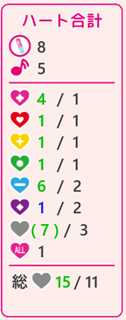
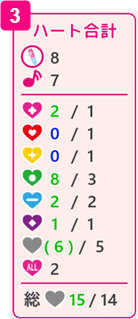
Anniversary2026向け更新 (#4)
* 更新履歴の更新

* 使い方と画像の更新

* Readmeの更新

diff --git a/docs/Usage.md b/docs/Usage.md
@@ -4,8 +4,7 @@
 ## 基本的な使い方
 基本的にはドラッグでカードを移動、クリックや右クリックで操作。
 
-**`速い操作や長時間の使用は(スペックにより)ツールが落ちる可能性が高まるため避けてください。`**  
-**`こまめなデッキの保存や立ち上げ直しをお願いします。`**
+**`極度に速い操作は(スペックにより)ツールが落ちる可能性が高まるため避けてください。`**  
 
 ### プレイ画面(シミュレーション)
 プレイ画面では画面右下のNextボタンでターンを進行する。
@@ -51,6 +50,8 @@
 
 ![](images/index_main_yell.png)
 
+![](images/index_main_indeck.png)
+
 |#|名前|説明|
 |---|---|---|
 |1|詳細パネル|クリックしたカードの詳細情報が表示される。<br>拡大画像をクリックすると、カード番号や最初の収録パックが表示される。|
@@ -68,6 +69,8 @@
 |13|控え室|カードをドラッグ&ドロップで移動できる。一番最後に控え室に入ったカードが表示される。<br>クリックすると控え室のカード一覧が表示され、そこからカードをドラッグ&ドロップで移動できる。|
 |14|ブレードハート合計パネル|エールで出されたカードのブレードハートの合計が表示される。|
 |15|エール領域|カードをドラッグ&ドロップで移動できる。エールで出されたカードが並び、ブレードハートが表示される。<br>エールしているカードが存在するときのみ表示される。|
+|16|ブレードハート上書きメニュー|ブレードハート合計パネルをクリックすると表示される。<br>エールでめくられているカードのブレードハートの色を変更する。|
+|17|デッキの内容|メインデッキを右クリックすると表示される。<br>デッキ内のカードの一覧が表示される。一番上と一番下に置かれたカードは先頭と最後尾に表示される。|
 
 **ボタンについて**
 
@@ -76,7 +79,9 @@
 |メニューボタン|![](images/button_menu.png)|各種操作のメニューが開く。|
 |キャプチャボタン|![](images/button_capture.png)|ウィンドウ内をキャプチャして画像として保存する。|
 |向き変更ボタン|![](images/button_rotate.png)|メンバーカードのアクティブ<=>ウェイト状態を変更する。|
-|ステータス編集ボタン|![](images/button_edit.png)|選択・表示されているカードのステータスを編集するダイアログを開く。<br>デッキ・控え室のカードのステータスは編集できない。|
+|ステータス編集ボタン<br>(詳細パネル)|![](images/button_edit.png)|選択・表示されているカードのステータスを編集するダイアログを開く。<br>デッキ・控え室のカードのステータスは編集できない。|
+|ステータス編集ボタン<br>(ステータスパネル)|![](images/button_edit.png)|そのエリアのカードのステータスを編集するダイアログを開く。|
+|ステータスリセットボタン<br>(ステータスパネル)|![](images/button_reset.png)|そのエリアのカードのステータスをリセットする。|
 |Nextボタン|![](images/button_next.png)|次のフェイズ、ターンへ移行する。ターン開始時や終了時の処理は自動で行われる。<br>(ドロー、エネルギーアクティブ、エネルギー追加、残ったライブカードとエールカードの移動)|
 |エールボタン|![](images/button_yell.png)|1回クリックすると、メインデッキからエール領域にカードを1枚追加する。解決領域は隠される。|
 |めくるボタン|![](images/button_pick.png)|1回クリックすると、メインデッキから解決領域にカードを1枚追加する。|
@@ -88,11 +93,17 @@
 |エネルギー(−)ボタン|![](images/button_minus_square.png)|エネルギーの数を1減少させる。|
 |エネルギー(＋)ボタン|![](images/button_plus_square.png)|エネルギーの数を1増加させる。|
 |エネルギーリセットボタン|![](images/button_reset.png)|エネルギーをすべてアクティブ状態に変更する。|
+|元の色に戻すボタン|![](images/button_reset_bladeheart.png)|エール中のカード全てのブレードハートの色を元に戻す。|
+|ブレードハート上書きボタン|![](images/button_overwrite_bladeheart.png)他|エール中のカード全てのブレードハートの色を選択した色に変更する。|
 
 #### 集計パネルの見方
 ![](images/index_heart_sum_1.png)
 ![](images/index_heart_sum_2.png)
 ![](images/index_heart_sum_3.png)
+
+[1] ライブカードが無い場合  
+[2] ライブカードを出している(必要ハートが足りていない)場合
+[3] ライブカードを出している(必要ハートが足りている)場合 (※エール済みでALLハートで必要ハートが足りている)
 
 - ブレード:  
     ステージのメンバーのブレードの数の合計。  
@@ -159,7 +170,7 @@
 ![](images/index_library_filter.png)
 
 デフォルトで「ノーマルのみ」になっている。  
-
+「基本/必要ハート」と「ブレードハート」はすべてor条件での絞り込み。
 
 ### デッキ表示ウィンドウ
 
@@ -167,11 +178,10 @@
 
 |#|名前|説明|
 |---|---|---|
-|1|日付|デッキを最初に作成(SaveAs)した日付。|
-|2|タイトル|デッキにつけられた名前。|
-|3|枚数表示|現在のデッキの総枚数とメンバーカード、ライブカードの枚数。|
-|4|集計表示|現在のデッキのブレード数合計、ブレードハート(ハート、スコア、ドロー)を持つカードの枚数とラブカポイントシステムの現在の合計値。|
-|5|デッキのカード|デッキのカード一覧。右下は枚数。<br>ウィンドウのサイズを変更すると、最大9列の表示になる。|
+|1|タイトル|デッキにつけられた名前。|
+|2|枚数表示|現在のデッキの総枚数とメンバーカード、ライブカードの枚数。|
+|3|集計表示|現在のデッキのブレード数合計、ブレードハート(ハート、スコア、ドロー)を持つカードの枚数とラブカポイントシステムの現在の合計値。|
+|4|デッキのカード|デッキのカード一覧。右下は枚数。<br>ウィンドウのサイズを変更すると、最大9列の表示になる。|
 
 ## ファイル
 

diff --git a/History.md b/History.md
@@ -1,8 +1,24 @@
 # 更新履歴
 
+## 1.1.1428.0
+
+- [Updated] 「Anniversary 2026」のカードを追加
+- [Updated] 「スタートデッキ Aqours」のカードを追加
+- [Updated] 「スタートデッキ 蓮ノ空」のカードを追加
+- [Updated] 2026/02のPRカードを追加
+- [Changed] エールのブレードハートを変更する機能を追加
+- [Changed] ステータスパネルに編集ボタンとリセットボタンを追加
+- [Changed] カードのドラッグ時にも詳細パネルにカード情報が表示されるように変更
+- [Changed] デッキ編集画面のフィルターに「収録」を追加
+- [Changed] 詳細パネルのカード情報に、同番号のカードが収録されている製品名が複数表示されるように変更
+- [Fixed] 各画面のレイアウトの修正
+- [Fixed] デッキ0枚時にエールボタンとめくるボタンを押せないように修正
+- [Fixed] リフレッシュ後のデッキ内一覧の表示順を修正
+- [Fixed] 控え室トップのライブカードの向きを修正
+
 ## 1.0.1329.0
 
-- [Changed] 2026/01のPRカード(メンバー、ライブ)を追加
+- [Updated] 2026/01のPRカード(メンバー、ライブ)を追加
 - [Fixed] デッキ保存時にデフォルト名が表示されない問題を修正
 - [Changed] デッキ編成画面のフィルターを追加・変更
     - ブレードハートにスコアプラス、ドロー、ブレードハートなしを追加

diff --git a/README.md b/README.md
@@ -30,7 +30,6 @@
 ## 利用条件
 - 個人でのローカルの利用は自由です。
 - 本ツールのキャプチャ・動画のWeb上への掲載は可能です。
-    - これに伴う間接的な商用利用は可。商用の際はなるべく配布URL等の掲載をお願いします。(note等)
 - 再配布は禁止です。
 - 本ツールをリバースエンジニアリングすることは禁止です。
 - 本ツールの改変は禁止です(ただし、データとして使用しているjsonを除く)。
